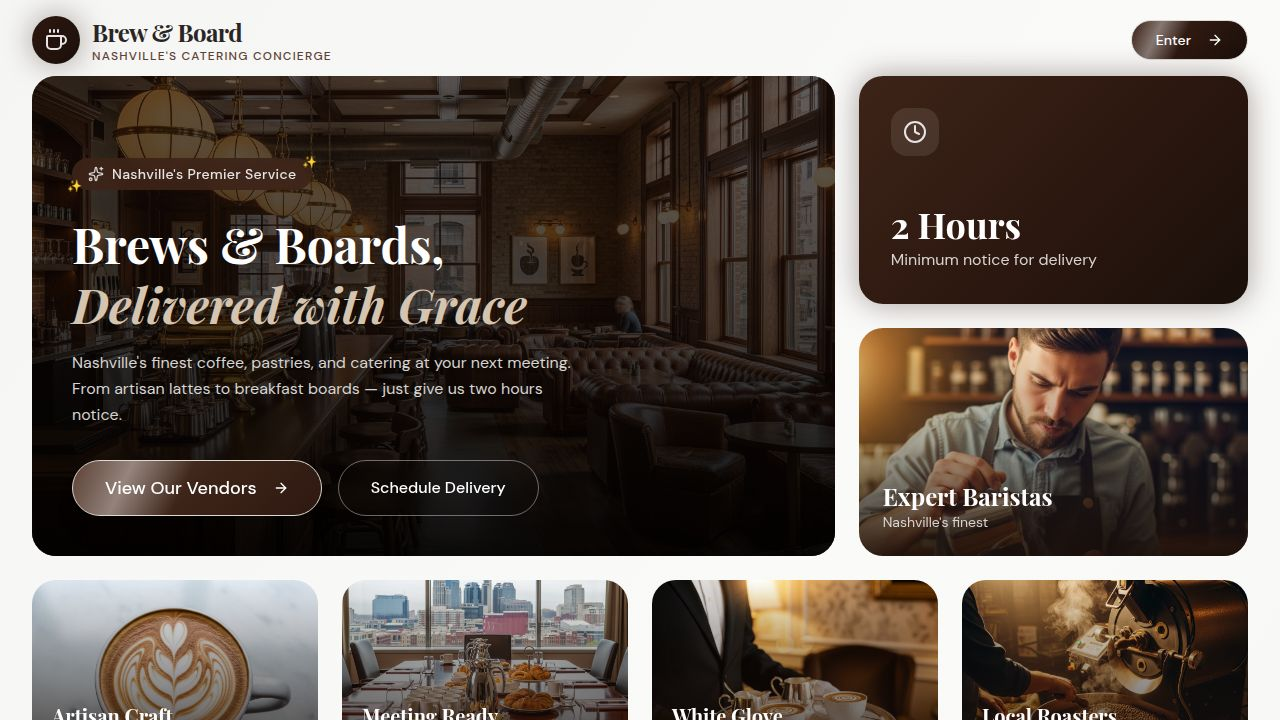
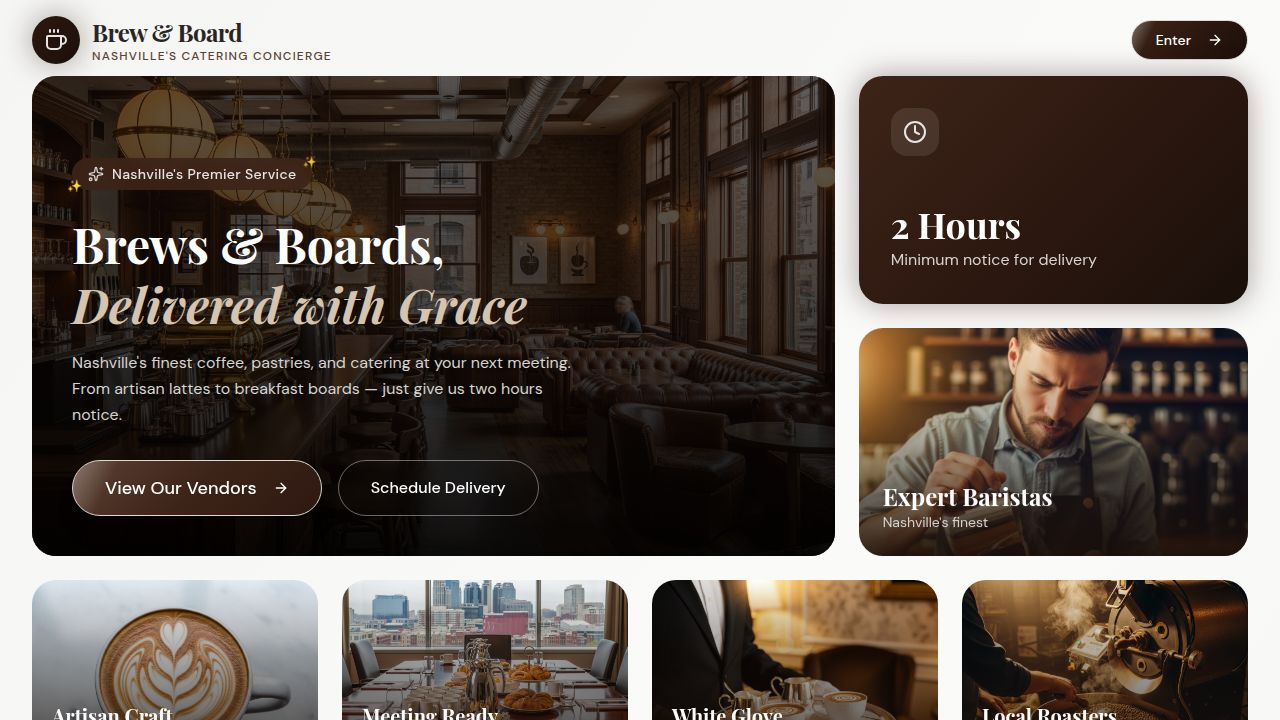
Update platform version and perform pre-publish checks to ensure readiness
Update version to 1.2.8 across login page, version.json, and associated documentation, and increment build number and last published timestamp.

Replit-Commit-Author: Agent
Replit-Commit-Session-Id: 58b0da8a-3370-49be-b7d8-50813654ecea
Replit-Commit-Checkpoint-Type: intermediate_checkpoint
Replit-Commit-Event-Id: 36306271-af88-4a6e-a861-1972302a83b6
Replit-Commit-Screenshot-Url: https://storage.googleapis.com/screenshot-production-us-central1/2212dbcc-9c27-4c0c-98a7-97538d78ab07/58b0da8a-3370-49be-b7d8-50813654ecea/ZKhhNBR

Changed region(s): [[0.0625, 0.6417, 0.1562, 0.7333], [0.875, 0.0306, 0.9375, 0.0917]]

diff --git a/client/src/pages/login.tsx b/client/src/pages/login.tsx
@@ -689,7 +689,7 @@ export default function LandingPage() {
             >
               Darkwave Studios, LLC
             </a>
-            {' '}• <span className="text-amber-400/60 font-medium">v1.2.7</span>
+            {' '}• <span className="text-amber-400/60 font-medium">v1.2.8</span>
           </p>
         </div>
       </footer>
